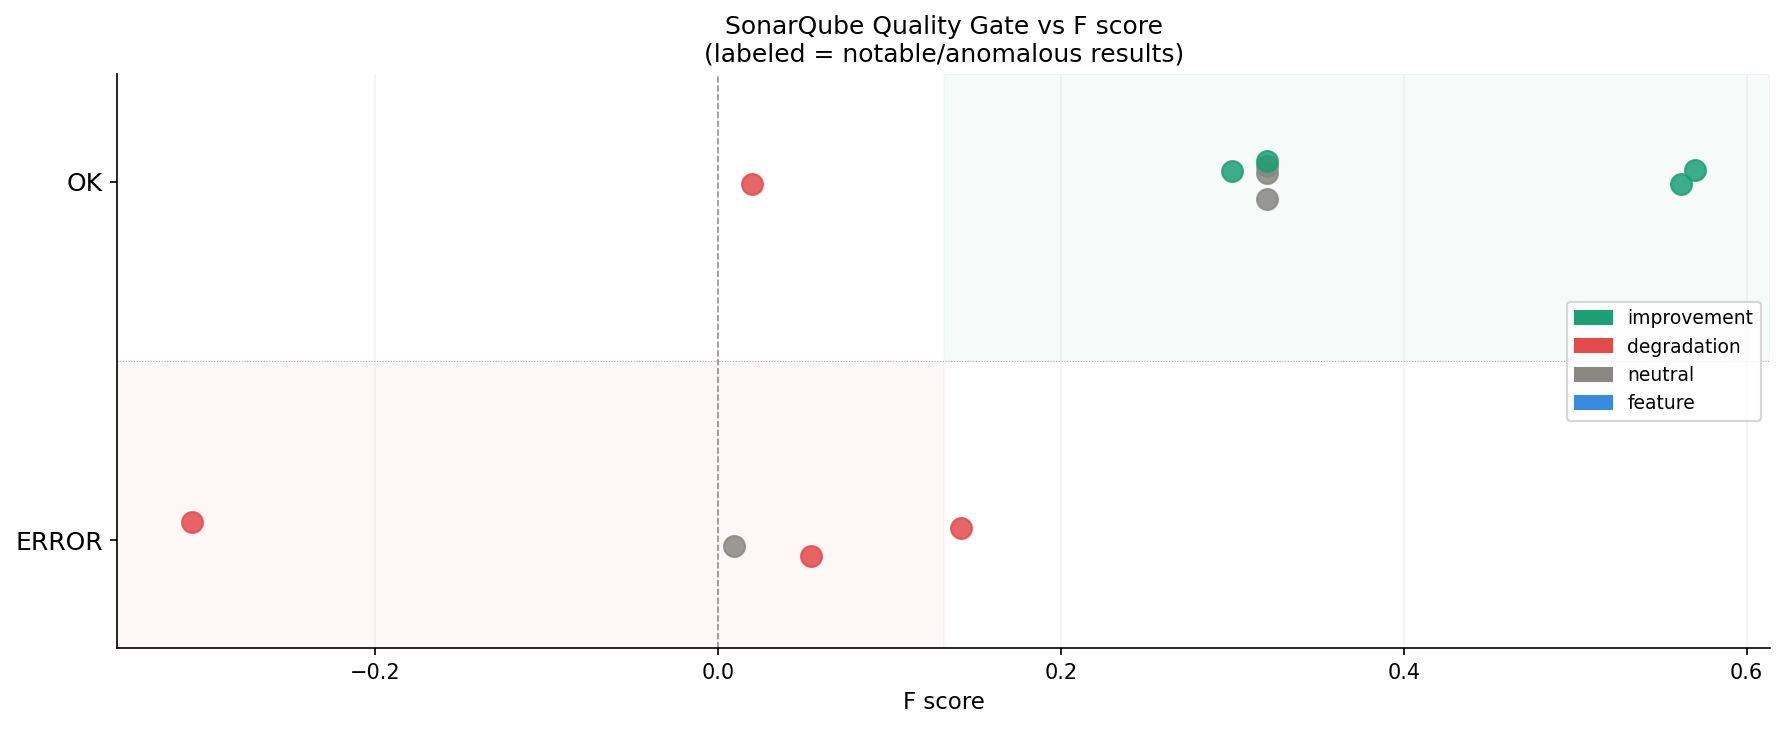
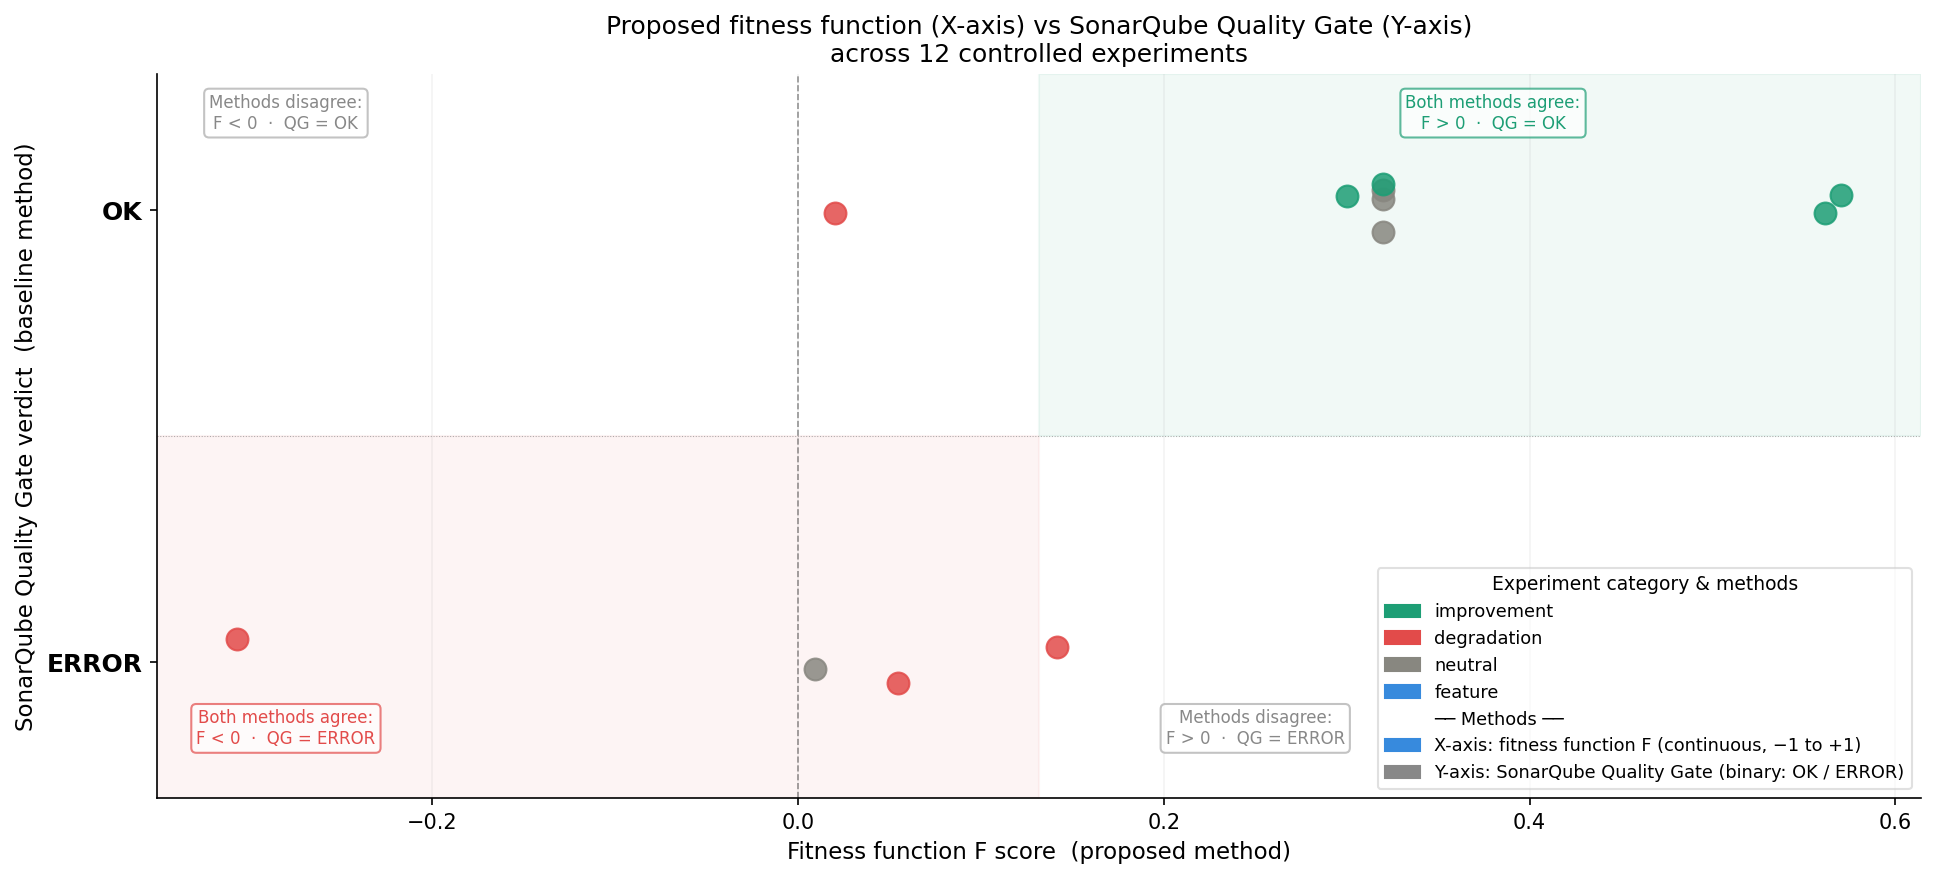
Update the fitness metrics analyzer

diff --git a/fitness-metrics-analyzer/charts.py b/fitness-metrics-analyzer/charts.py
@@ -156,19 +156,9 @@ def plot_f_over_time(df: pd.DataFrame, save: bool = True) -> plt.Figure:
 
 def plot_qg_vs_f(df: pd.DataFrame, save: bool = True) -> plt.Figure:
     """Compare SonarQube Quality Gate binary result vs continuous F score."""
-    fig, ax = plt.subplots(figsize=(12, 5))
+    fig, ax = plt.subplots(figsize=(13, 6))
 
     qg_numeric = df["sonarqube_qg"].map({"OK": 1, "ERROR": 0, "UNKNOWN": 0.5})
-
-    # Only label these notable/outlier experiments
-    label_these = {
-        "degrade-duplication",   # only truly negative F
-        "improve-spotbugs",      # highest F improvement
-        "improve-coverage-unit-tests",  # second improvement
-        "degrade-coverage",      # degradation that passed QG (anomaly)
-        "neutral-move-packages", # neutral that failed QG (anomaly)
-        "degrade-checkstyle",    # degradation with highest F score
-    }
 
     rng = np.random.default_rng(42)
     jitter = rng.uniform(-0.06, 0.06, len(df))
@@ -177,56 +167,71 @@ def plot_qg_vs_f(df: pd.DataFrame, save: bool = True) -> plt.Figure:
         y_pos = qg_numeric[idx] + jitter[i]
         ax.scatter(
             row["fitness_score"], y_pos,
-            color=row["color"], s=100, zorder=3, alpha=0.85,
+            color=row["color"], s=110, zorder=3, alpha=0.85,
         )
 
-        # Only annotate notable experiments
-        if row["short_name"] in label_these:
-            # Decide offset direction based on position
-            x_off = 8 if row["fitness_score"] < 0.4 else -8
-            ha = "left" if x_off > 0 else "right"
-            ax.annotate(
-                row["short_name"],
-                (row["fitness_score"], y_pos),
-                fontsize=8,
-                xytext=(x_off, 6),
-                textcoords="offset points",
-                color="#333",
-                ha=ha,
-                zorder=5,
-                arrowprops=dict(arrowstyle="-", color="#aaa", lw=0.8),
-            )
+    # Quadrant shading
+    ax.axhspan(0.5, 1.3, xmin=0.5, alpha=0.06, color="#1D9E75")
+    ax.axhspan(-0.3, 0.5, xmax=0.5, alpha=0.06, color="#E24B4A")
 
-    # Quadrant shading — ideal zones
-    ax.axhspan(0.5, 1.3, xmin=0.5, alpha=0.04, color="#1D9E75",
-               label="Ideal: improvement detected (F>0, QG OK)")
-    ax.axhspan(-0.3, 0.5, xmax=0.5, alpha=0.04, color="#E24B4A",
-               label="Ideal: degradation detected (F<0, QG ERROR)")
+    # Quadrant labels — explicitly name both methods
+    ax.text(0.38, 1.18, "Both methods agree:\nF > 0  ·  QG = OK",
+            fontsize=8, color="#1D9E75", ha="center",
+            bbox=dict(boxstyle="round,pad=0.3", fc="white", ec="#1D9E75", alpha=0.7))
+    ax.text(-0.28, -0.18, "Both methods agree:\nF < 0  ·  QG = ERROR",
+            fontsize=8, color="#E24B4A", ha="center",
+            bbox=dict(boxstyle="round,pad=0.3", fc="white", ec="#E24B4A", alpha=0.7))
+    ax.text(0.25, -0.18, "Methods disagree:\nF > 0  ·  QG = ERROR",
+            fontsize=8, color="#888", ha="center",
+            bbox=dict(boxstyle="round,pad=0.3", fc="white", ec="#aaa", alpha=0.7))
+    ax.text(-0.28, 1.18, "Methods disagree:\nF < 0  ·  QG = OK",
+            fontsize=8, color="#888", ha="center",
+            bbox=dict(boxstyle="round,pad=0.3", fc="white", ec="#aaa", alpha=0.7))
 
     ax.axvline(0, color="black", linewidth=0.8, linestyle="--", alpha=0.4)
     ax.axhline(0.5, color="#aaa", linewidth=0.5, linestyle=":")
+
+    # Axis labels — explicitly name both methods
     ax.set_yticks([0, 1])
-    ax.set_yticklabels(["ERROR", "OK"], fontsize=12)
-    ax.set_xlabel("F score", fontsize=11)
-    ax.set_title("SonarQube Quality Gate vs F score\n(labeled = notable/anomalous results)", fontsize=12)
+    ax.set_yticklabels(["ERROR", "OK"], fontsize=12, fontweight="bold")
+    ax.set_xlabel("Fitness function F score  (proposed method)", fontsize=11)
+    ax.set_ylabel("SonarQube Quality Gate verdict  (baseline method)", fontsize=11)
+    ax.set_title(
+        "Proposed fitness function (X-axis) vs SonarQube Quality Gate (Y-axis)\n"
+        "across 12 controlled experiments",
+        fontsize=12
+    )
     ax.set_ylim(-0.3, 1.3)
     ax.spines["top"].set_visible(False)
     ax.spines["right"].set_visible(False)
     ax.grid(axis="x", alpha=0.15)
 
-    legend_handles = [
+    # Two-part legend: categories + method explanation
+    from matplotlib.lines import Line2D
+    category_handles = [
         mpatches.Patch(color=c, label=k)
         for k, c in CATEGORY_COLORS.items()
     ]
-    ax.legend(handles=legend_handles, fontsize=9, loc="center right")
-    plt.tight_layout()
+    method_handles = [
+        Line2D([0], [0], color="none", label="── Methods ──"),
+        mpatches.Patch(color="#378ADD", label="X-axis: fitness function F (continuous, −1 to +1)"),
+        mpatches.Patch(color="#888", label="Y-axis: SonarQube Quality Gate (binary: OK / ERROR)"),
+    ]
+    ax.legend(
+        handles=category_handles + method_handles,
+        fontsize=8.5,
+        loc="lower right",
+        framealpha=0.6,
+        title="Experiment category & methods",
+        title_fontsize=9,
+    )
 
+    plt.tight_layout()
     if save:
         _ensure_output_dir()
         fig.savefig(f"{OUTPUT_DIR}/qg_vs_f.png", dpi=150, bbox_inches="tight")
         print(f"Saved: {OUTPUT_DIR}/qg_vs_f.png")
     return fig
-
 
 def plot_descriptive_stats_table(df: pd.DataFrame, save: bool = True) -> plt.Figure:
     """Render descriptive statistics as a formatted table figure (paper-ready)."""
